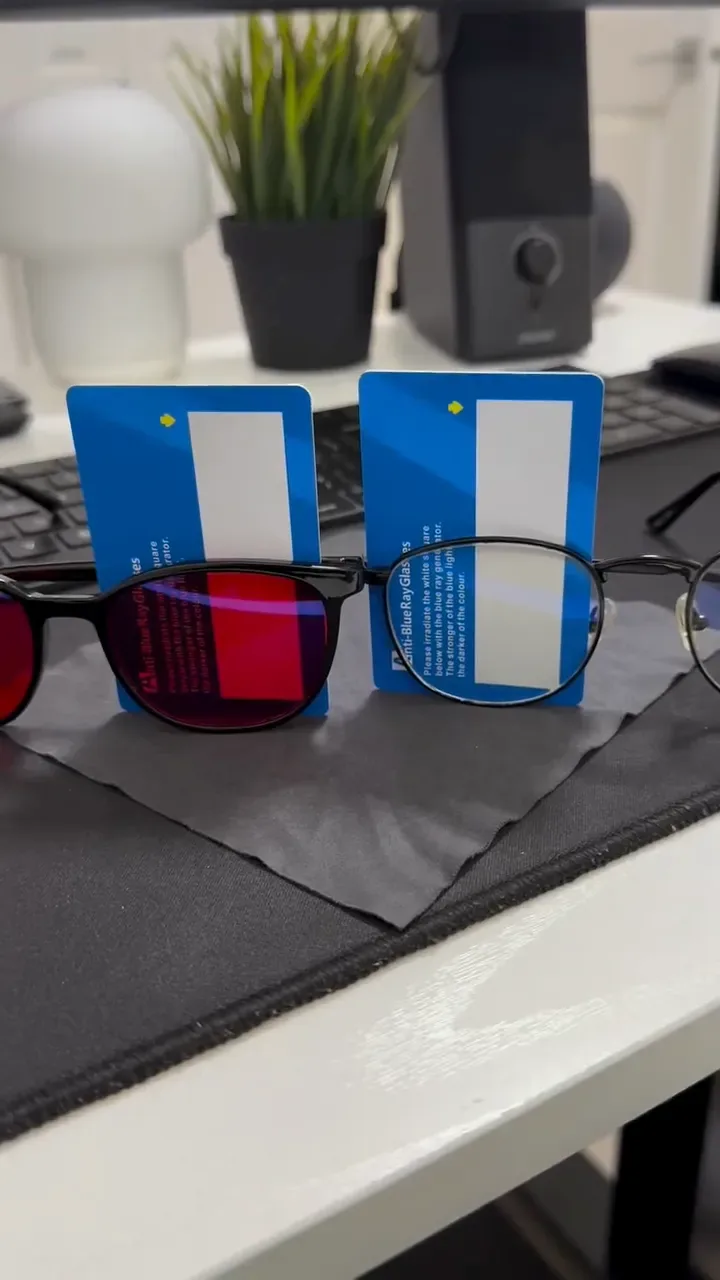
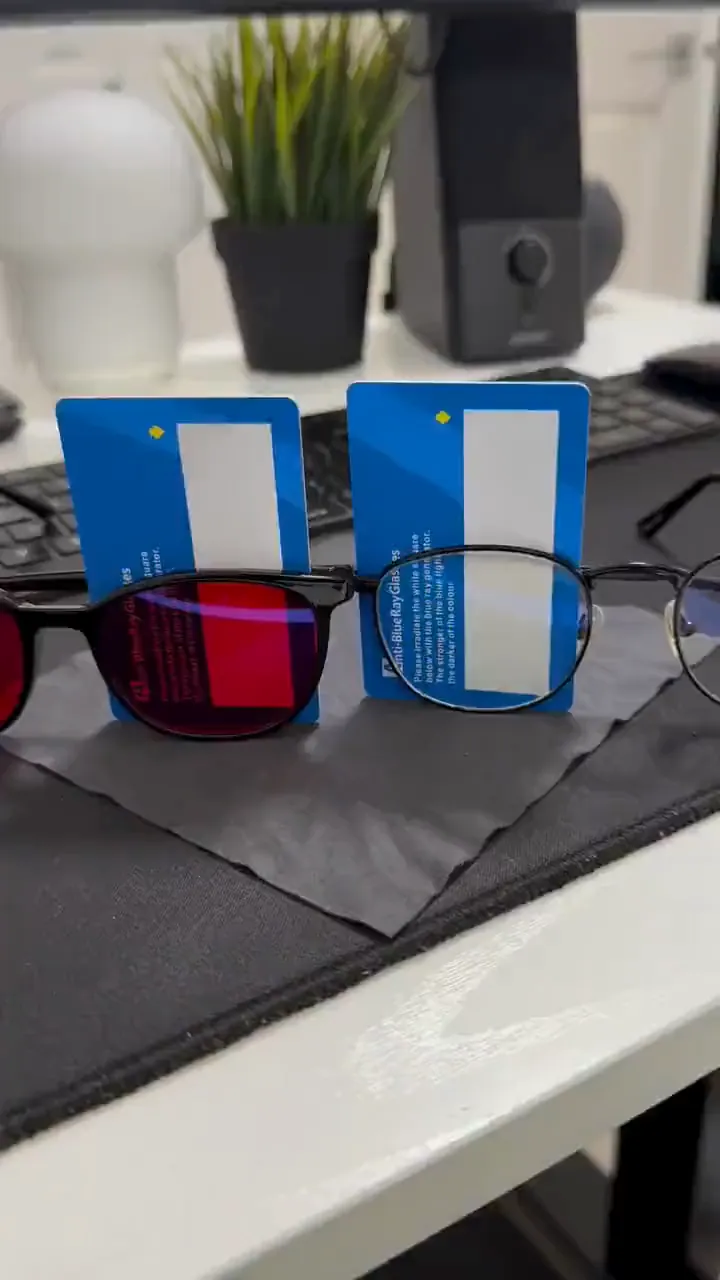
perf(landing): arreglar el arranque del video
Dos causas del tiron. El poster no era un cuadro del video sino otra toma,
mas cerrada: cuando aparecia el primer cuadro real el encuadre saltaba, y eso
se leia como que el video "aparece de repente". Ahora el poster es el cuadro
0 exacto del archivo, extraido del mp4 nuevo.

La segunda es que con preload="metadata" el archivo empezaba a bajar recien
cuando el video ya estaba a media pantalla, asi que se veia el poster quieto
un rato. Un segundo observador dispara la descarga 800px antes de que se vea.
Medido al momento de reproducir: readyState 4 y los 16,8 segundos enteros en
buffer, o sea arranca sin esperar nada.

diff --git a/src/components/ProductVideo.tsx b/src/components/ProductVideo.tsx
@@ -49,10 +49,27 @@ export const ProductVideo = () => {
       { threshold: 0.5 },
     );
 
+    // Precarga adelantada. Con preload="metadata" el archivo empezaba a bajar
+    // recien cuando el video ya estaba a media pantalla, asi que se veia el
+    // poster quieto un rato y despues arrancaba de golpe. Este segundo
+    // observador dispara la descarga 800px antes de que se vea, y para cuando
+    // le toca reproducir ya tiene buffer.
+    const warmup = new IntersectionObserver(
+      (entries) => {
+        if (!entries.some((entry) => entry.isIntersecting)) return;
+        warmup.disconnect();
+        videoElement.preload = "auto";
+        videoElement.load();
+      },
+      { rootMargin: "800px 0px" },
+    );
+
+    warmup.observe(videoElement);
     observer.observe(videoElement);
 
     return () => {
       isMounted = false;
+      warmup.disconnect();
       observer.disconnect();
     };
   }, []);
@@ -92,6 +109,11 @@ export const ProductVideo = () => {
             <video
               ref={videoRef}
               src={productVideo}
+              // El poster es el cuadro 0 exacto del archivo. El anterior era
+              // otra toma, un poco mas cerrada, asi que al aparecer el primer
+              // cuadro real el encuadre saltaba: eso era el "aparece de
+              // repente". Si se recorta o se reencoda el video, este poster se
+              // regenera con el, o vuelve el salto.
               poster={videoPoster}
               loop
               muted
